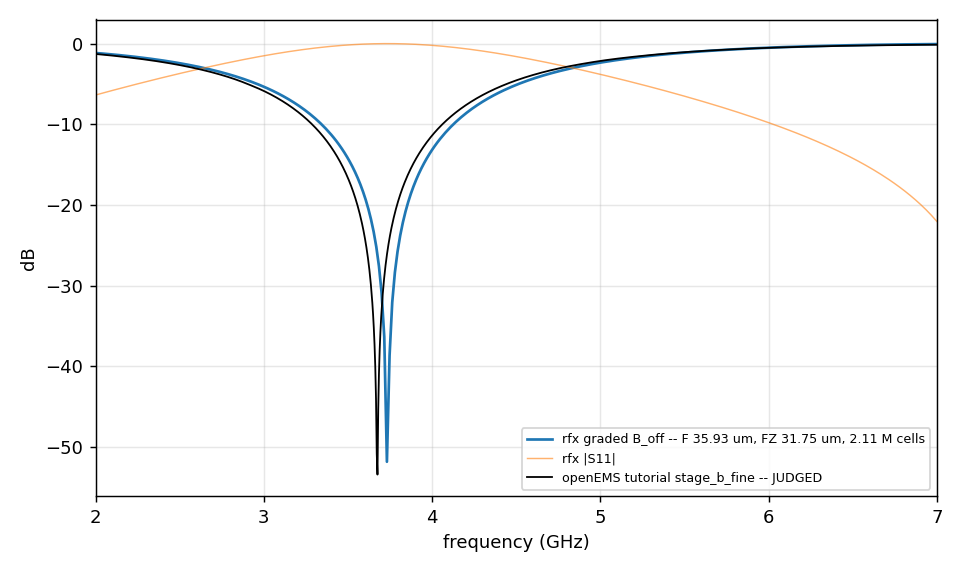
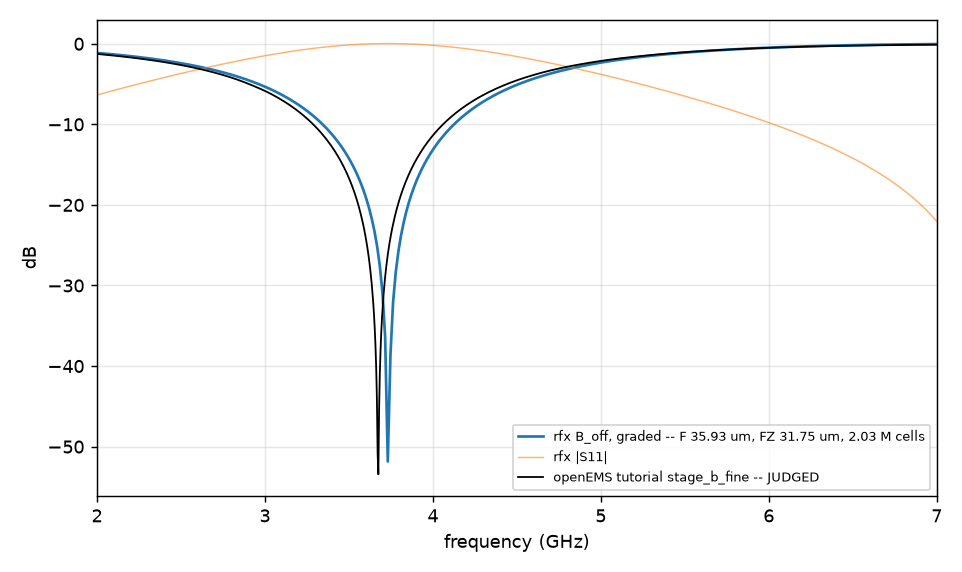
Say which mesh a figure plots, and count its cells as cells
The legend called every arm 'graded' and printed the node product, so U_h6's
figure read 'rfx graded U_h6 ... 13.76 M cells' for a uniform board of
13.44 M cells. All eight figures are replotted from the committed record; no
curve changes.

diff --git a/validation/research/multiband_nu/msl_notch_graded.py b/validation/research/multiband_nu/msl_notch_graded.py
@@ -1809,10 +1809,14 @@ def figure(record: dict, out_dir: Path) -> Path:
     s11 = np.asarray(record["s11_re"], float) + 1j * np.asarray(
         record["s11_im"], float)
     fig, ax = plt.subplots(figsize=(7.4, 4.4))
+    if record.get("kind") == "uniform":
+        mesh = f"uniform {record['dx_m'] * 1e6:.2f} um"
+    else:
+        mesh = (f"graded -- F {record['fine_cell_m'] * 1e6:.2f} um, "
+                f"FZ {record['substrate_cell_m'] * 1e6:.2f} um")
     ax.plot(f, case._db(np.abs(s21)), label=(
-        f"rfx graded {record['arm']} -- F {record['fine_cell_m'] * 1e6:.2f} um, "
-        f"FZ {record['substrate_cell_m'] * 1e6:.2f} um, "
-        f"{record['n_cells'] / 1e6:.2f} M cells"))
+        f"rfx {record['arm']}, {mesh}, "
+        f"{grid_cells(record) / 1e6:.2f} M cells"))
     ax.plot(f, case._db(np.abs(s11)), lw=0.8, alpha=0.6, label="rfx |S11|")
     ax.plot(stage["freqs_ghz"], case._db(stage["s21_mag"]), "k-", lw=1.0,
             label=f"openEMS tutorial {case.OPENEMS_JUDGED_STAGE} -- JUDGED")
